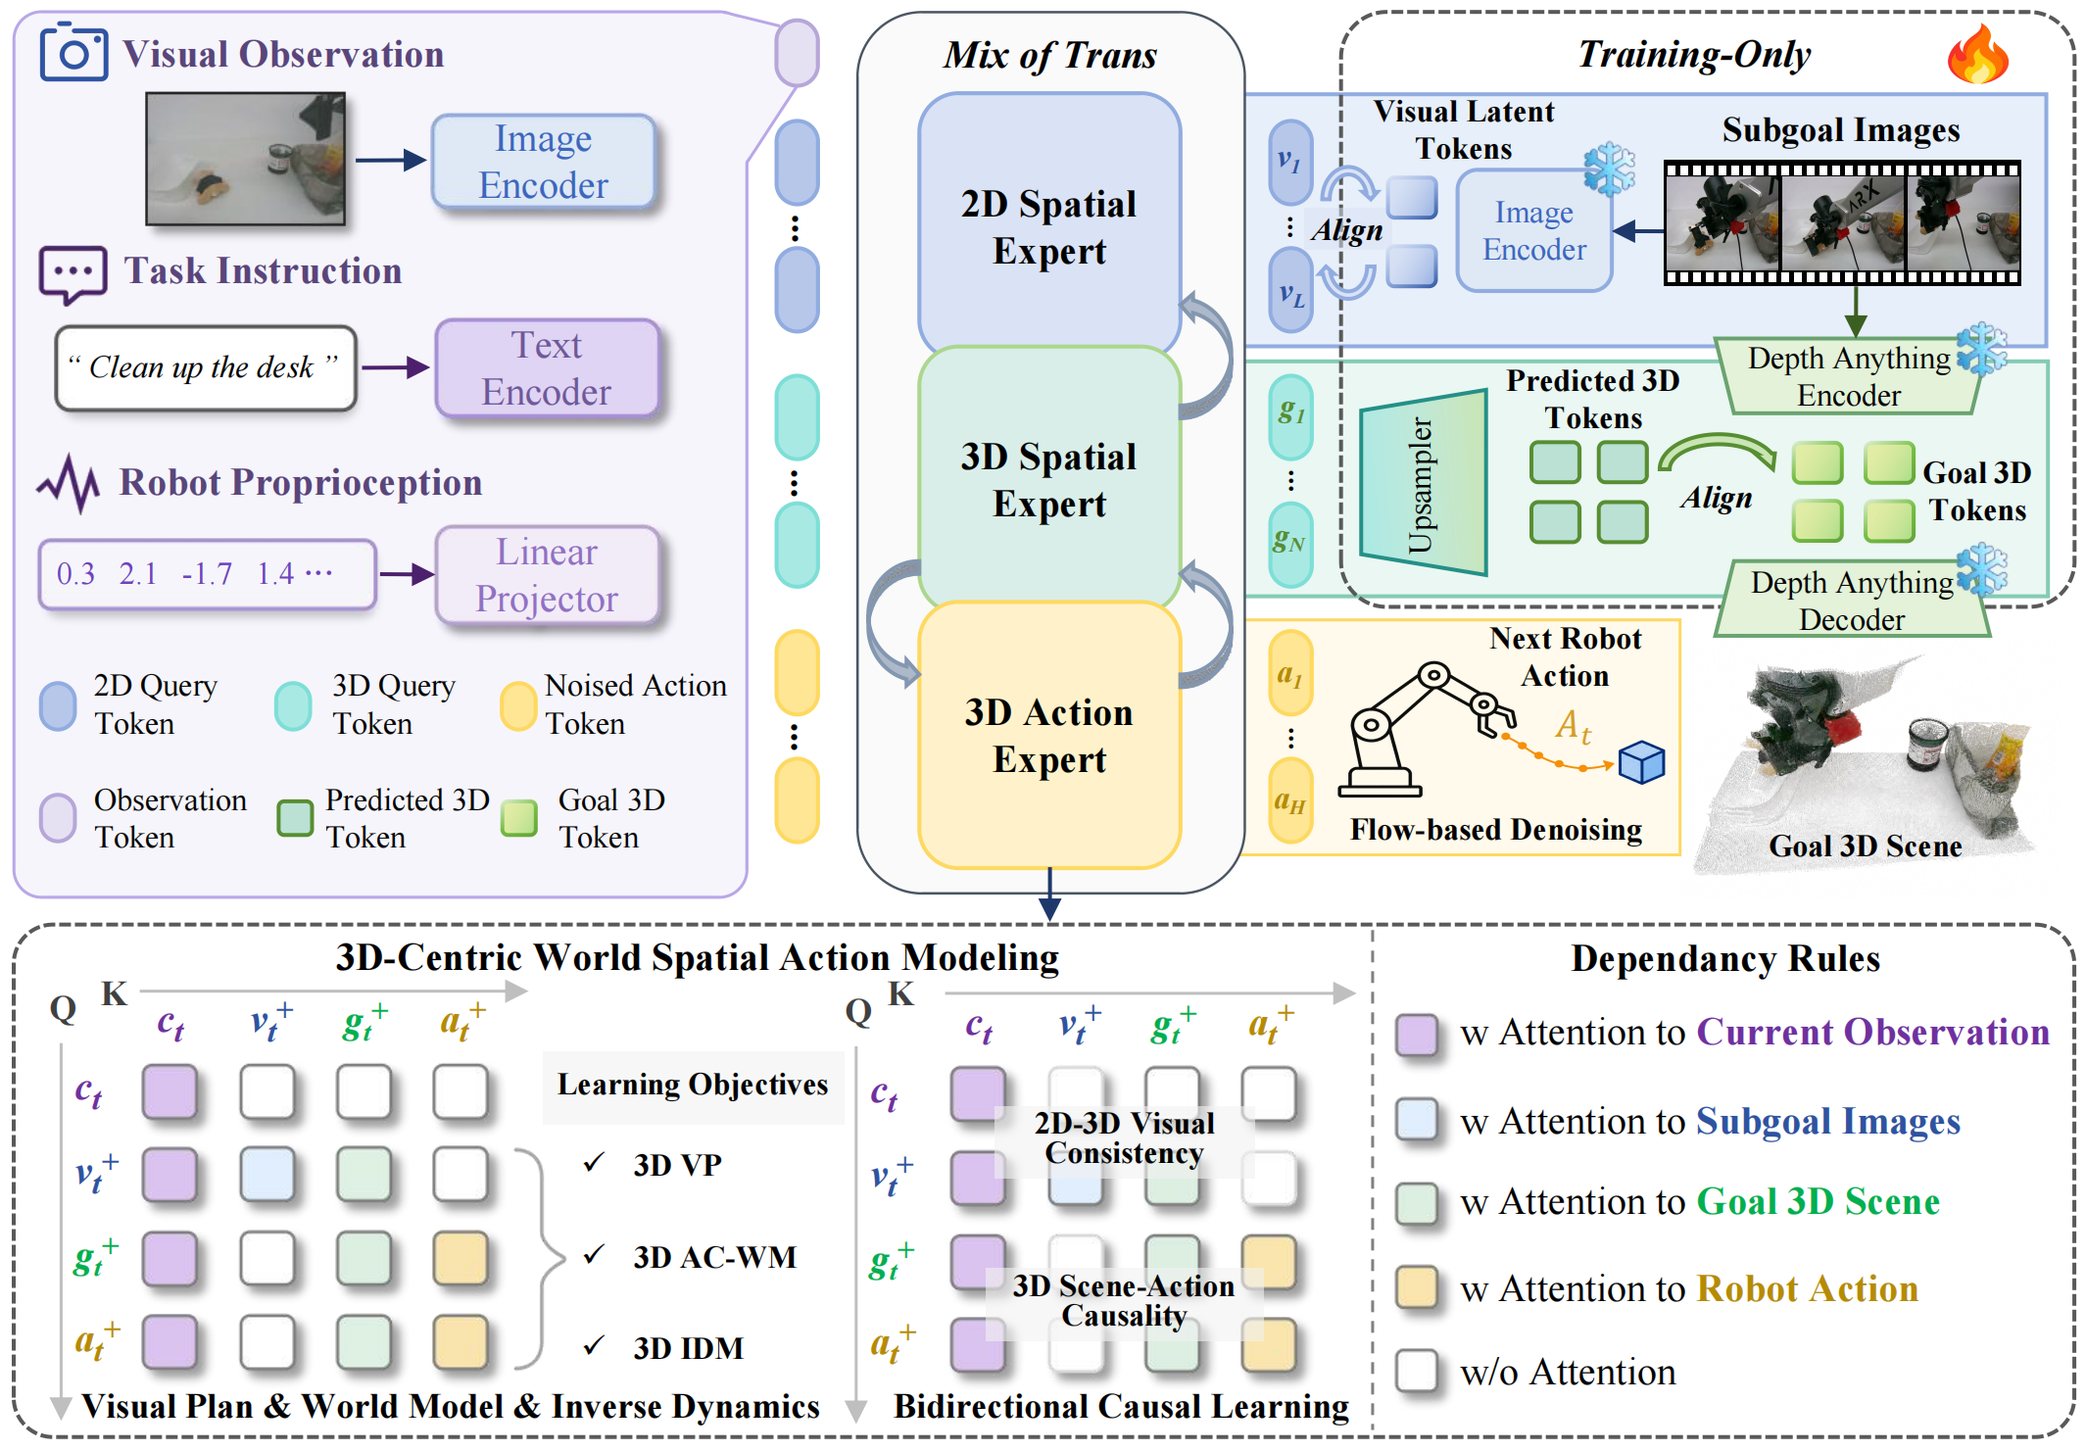
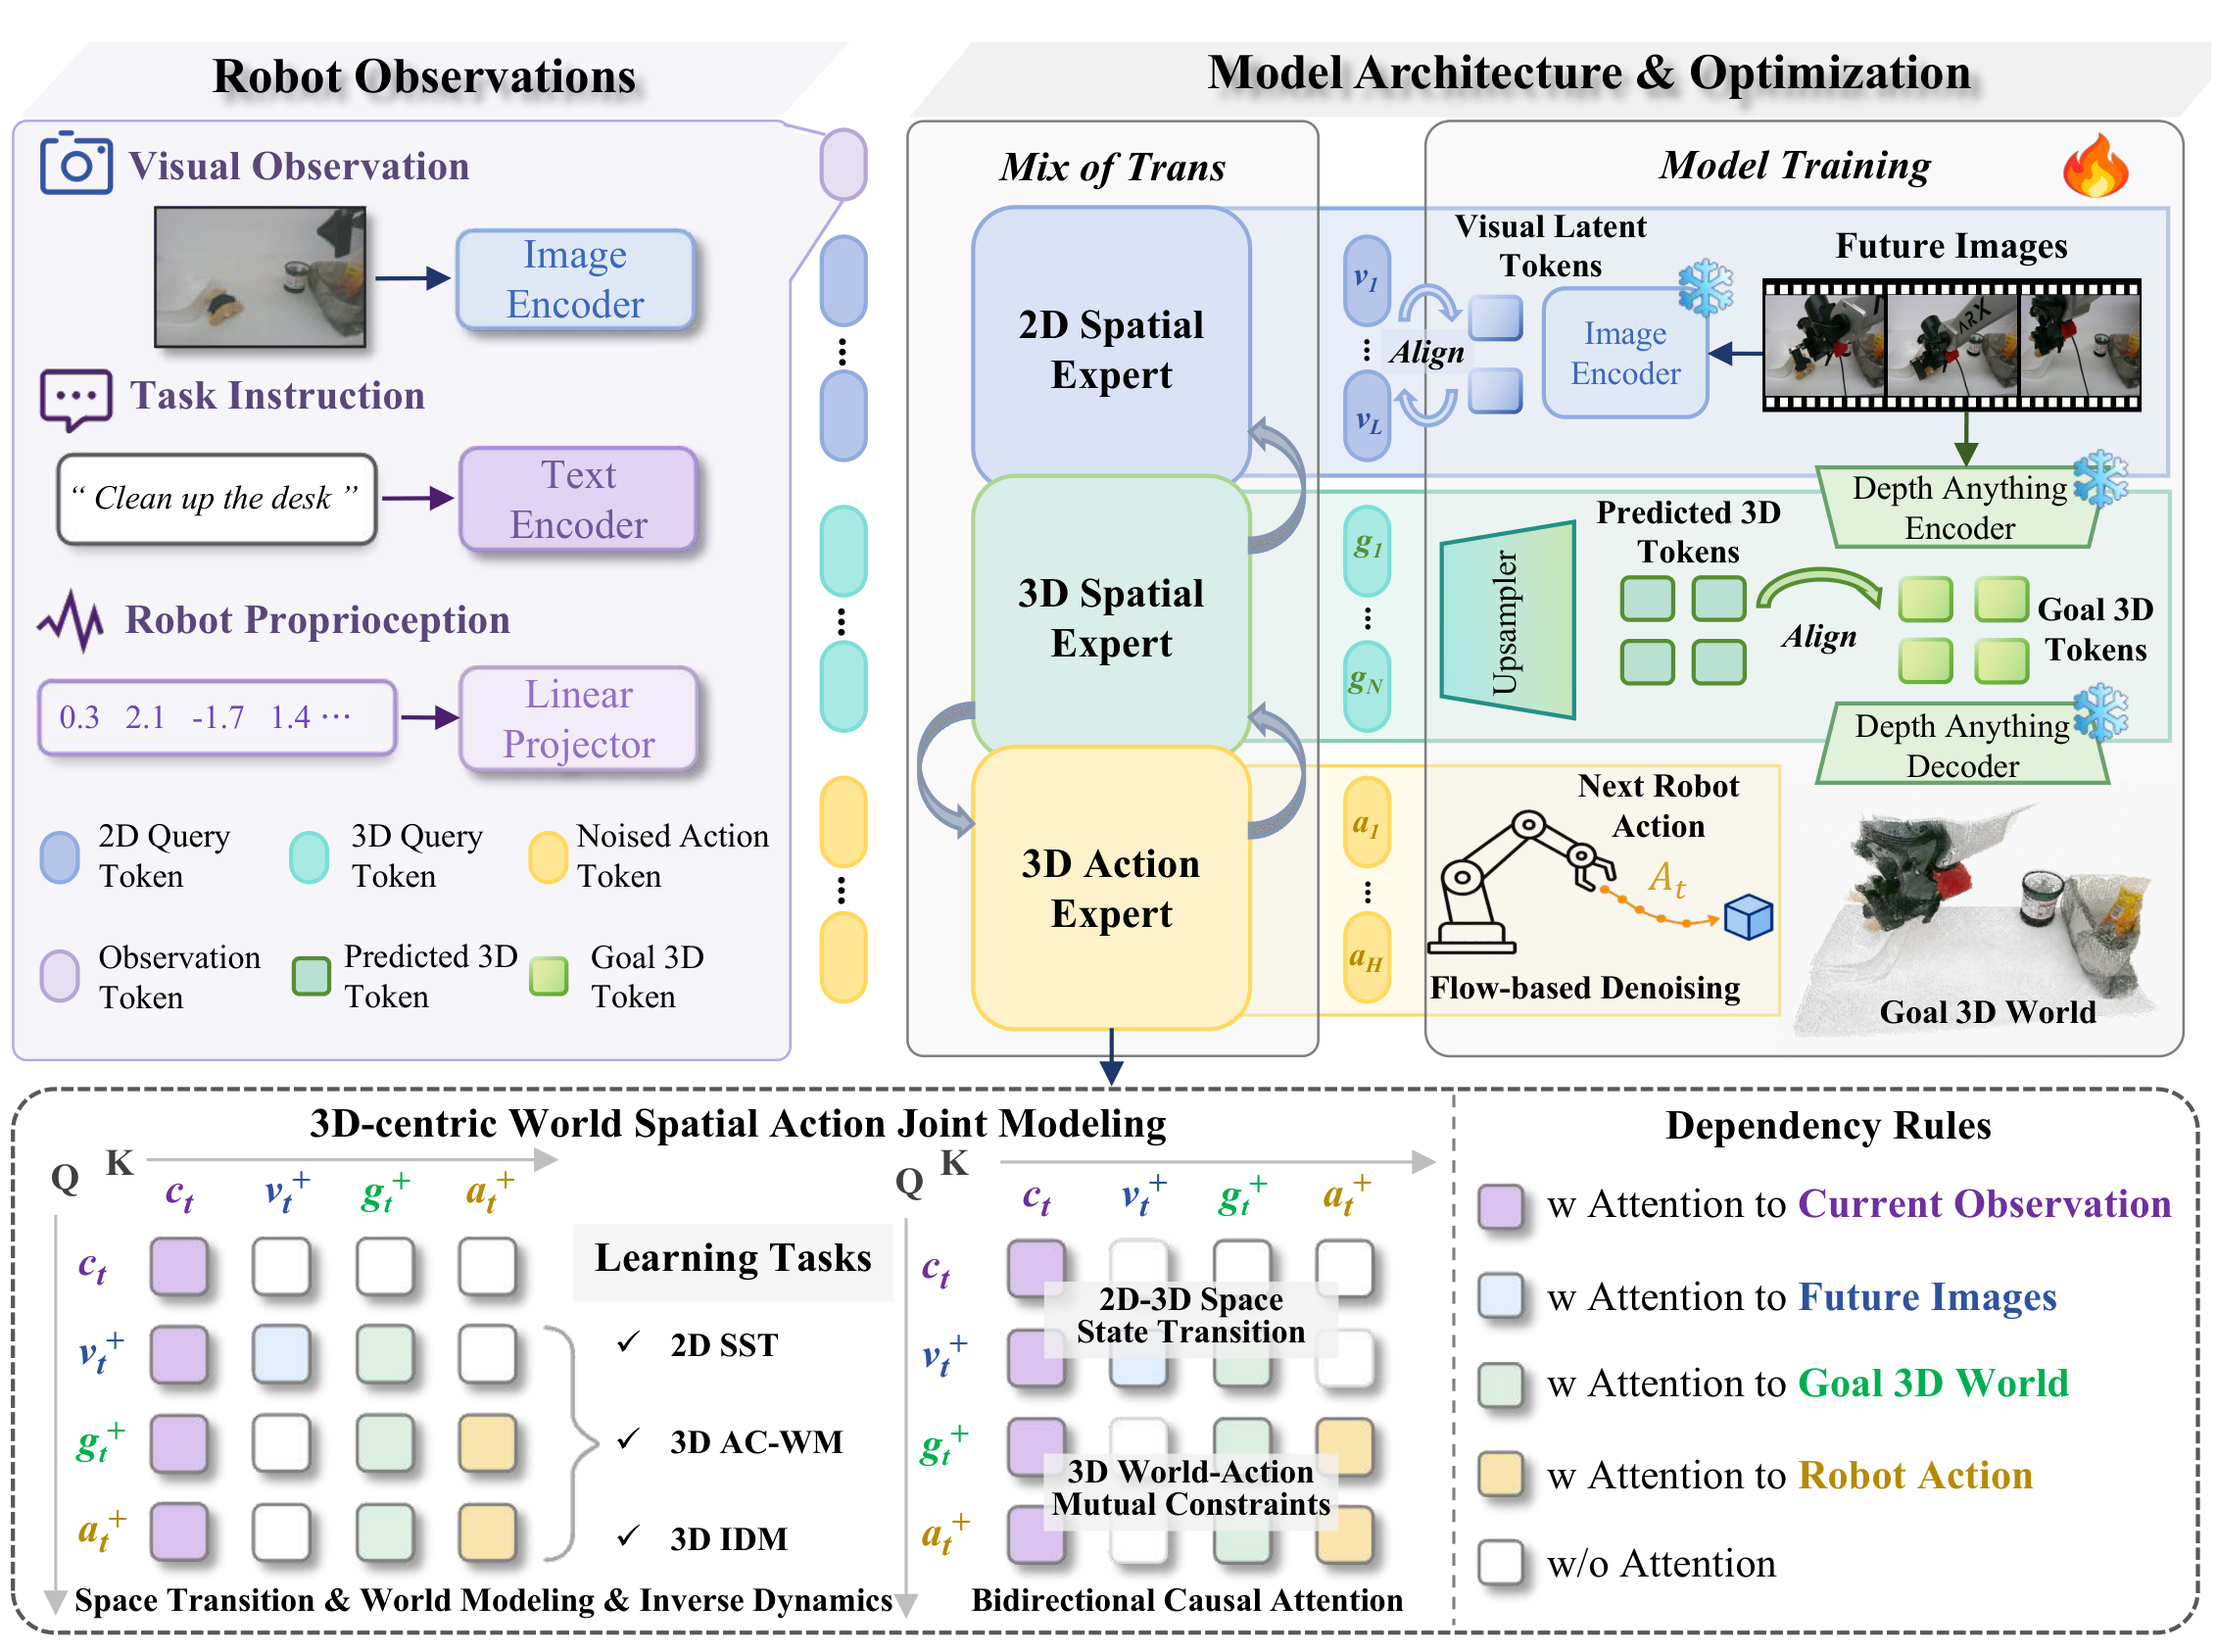
update figures and more results

diff --git a/README.md b/README.md
@@ -51,6 +51,12 @@
 
 ## Table of Contents
 - [Framework](#framework)
+- [Results](#results)
+  - [RoboTwin 2.0](#robotwin-20)
+  - [LIBERO](#libero)
+  - [Clean2Random Generalization](#clean2random-generalization-ood-c2r)
+  - [ARX-X5 Zero-Shot Transfer](#arx-x5-zero-shot-transfer-ood-ce)
+  - [Real-Robot Manipulation](#real-robot-manipulation)
 - [Repository Layout](#repository-layout)
 - [Installation](#installation)
 - [Model Zoo](#model-zoo)
@@ -88,11 +94,116 @@ and 3D-aware **action generation**.
 - **Superior Performance:** State-of-the-art results across simulation
   and real-world robot manipulation tasks, achieved by our open-source model.
 
----
-🤖 Result on RoboTwin 2.0 randomized setting, averaged over 50 simulated aloha manipulation tasks:
+## Results
+
+### RoboTwin 2.0
+
+Success rates averaged over 50 simulated ALOHA manipulation tasks in the
+randomized setting.
+WSA-B and WSA-L denote WSA₁-B (WSA-Base) and WSA₁-L (WSA-Large), respectively.
+
 | Metric | π0 | π0.5 | ABot-M0 | Motus | InternVLA-A1 | LingBot-VA | Fast-WAM | **WSA-B** | **WSA-L** |
 | --- | ---: | ---: | ---: | ---: | ---: | ---: | ---: | ---: | ---: |
-| Avg. Success (Hard) | 58.40% | 76.76% | 85.08% | 87.02% | 89.64% | 91.50% | 91.78% | 92.70% | **93.14%** |
+| Avg. Success (Randomized) | 58.4% | 76.8% | 85.1% | 87.0% | 89.6% | 91.6% | 91.8% | 92.7% | **93.1%** |
+
+### LIBERO
+
+Success rates (%) across spatial, object, goal-conditioned, and long-horizon
+manipulation. Avg. is the mean over the four suites.
+
+| Method | Spatial ↑ | Object ↑ | Goal ↑ | Long ↑ | Avg. ↑ |
+| --- | ---: | ---: | ---: | ---: | ---: |
+| π0.5 | 98.8 | 98.2 | 98.0 | 92.4 | 96.9 |
+| OpenVLA-OFT | 97.6 | 98.4 | 97.9 | 94.5 | 97.1 |
+| ABot-M0 | 98.8 | 99.8 | **99.0** | 96.6 | **98.6** |
+| Motus | 96.8 | 99.8 | 96.6 | 97.6 | 97.7 |
+| LingBot-VA | 98.5 | 99.6 | 97.2 | **98.5** | 98.5 |
+| Fast-WAM | 98.2 | **100.0** | 97.0 | 95.2 | 97.6 |
+| **WSA-B** | 98.6 | 99.6 | 97.2 | 94.2 | 97.4 |
+| **WSA-L** | **99.4** | 99.8 | 98.0 | 95.6 | 98.2 |
+
+### Clean2Random Generalization (OOD-C2R)
+
+All models are fine-tuned **only on clean demonstrations**, then evaluated in
+both clean and randomized scenes.
+Drop is Clean − Randomized, measured in percentage points (lower is better).
+
+| Method | Clean SR (%) ↑ | Randomized SR (%) ↑ | Avg. SR (%) ↑ | Drop (pp) ↓ |
+| --- | ---: | ---: | ---: | ---: |
+| π0.5 | 70.7 | 46.0 | 58.4 | 24.7 |
+| ABot-M0 | 57.4 | 30.4 | 43.9 | 27.0 |
+| RobotManip | 73.2 | 62.6 | 67.9 | 10.6 |
+| Fast-WAM | 77.8 | 1.9 | 39.9 | 75.9 |
+| InternVLA-A1 | **86.6** | 74.6 | 80.6 | 12.0 |
+| **WSA-B** | 83.8 | **77.8** | **80.8** | **6.0** |
+
+
+### ARX-X5 Zero-Shot Transfer (OOD-CE)
+
+Policies are fine-tuned on ALOHA and transferred to the **unseen ARX-X5**
+without target-robot policy fine-tuning. WSA-Base uses ARX-X5 state/action
+normalization statistics and is evaluated over 45 tasks with 100 episodes per
+task and setting.
+
+| Method | Clean SR (%) ↑ | Randomized SR (%) ↑ | Avg. SR (%) ↑ |
+| --- | ---: | ---: | ---: |
+| π0.5 | 33.5 | 19.0 | 26.3 |
+| LingBot-VA | 17.2 | 16.6 | 16.9 |
+| RobotManip | — | 42.9 | 42.9 |
+| Fast-WAM | 25.9 | 22.4 | 24.2 |
+| InternVLA-A1 | 18.1 | 17.5 | 17.8 |
+| **WSA-B** | **47.1** | **47.6** | **47.4** |
+
+<details>
+<summary>ALOHA → ARX-X5 execution examples</summary>
+
+<p align="center">
+  <img src="assets/arx_x5_zero_shot.png" alt="ALOHA and zero-shot ARX-X5 execution on Place Bread Basket, Hanging Mug, and Stack Bowls Three" width="95%">
+</p>
+
+Each task shows an ALOHA rollout followed by an ARX-X5 zero-shot rollout,
+with execution progressing from left to right.
+
+</details>
+
+### Real-Robot Manipulation
+
+Seven tabletop tasks span the **7-DoF AgileX PiPER** and **14-DoF bimanual
+ARX Lift2**. Success rate (SR) measures full-task completion; completeness (C)
+measures the fraction of task stages completed. Both metrics are averaged
+equally across the seven tasks.
+
+<p align="center">
+  <img src="assets/real_robot_results.png" alt="Success rates of five policies across seven real-robot tasks on AgileX PiPER and ARX Lift2" width="95%">
+</p>
+
+| Method | Avg. SR (%) ↑ | Avg. C (%) ↑ |
+| --- | ---: | ---: |
+| π0 | 33.73 | 43.24 |
+| π0.5 | 55.45 | 63.33 |
+| InternVLA-A1 | 38.45 | 50.37 |
+| **WSA-B** | 77.30 | 82.27 |
+| **WSA-L** | **80.52** | **85.21** |
+
+WSA-Large achieves **80.52%** average success and **85.21%** completeness.
+
+<details>
+<summary>Per-task real-robot results</summary>
+
+Each cell gives **SR / C (%)**. All policies use 30 trials per task, except
+Sweep Trash (34) and Unzip Pencil Bag (20).
+
+| Task | Robot | π0 | π0.5 | InternVLA-A1 | WSA-B | WSA-L |
+| --- | --- | ---: | ---: | ---: | ---: | ---: |
+| RGB Block Sorting | PiPER | 70.00 / 70.00 | 70.00 / 70.00 | 50.00 / 50.00 | 80.00 / 80.00 | 83.33 / 83.33 |
+| Object Organization | PiPER | 50.00 / 50.00 | 76.67 / 76.67 | 36.67 / 36.67 | 80.00 / 80.00 | 76.67 / 76.67 |
+| Trash Cleaning | Lift2 | 36.67 / 53.33 | 76.67 / 86.67 | 43.33 / 58.33 | 80.00 / 90.00 | 86.67 / 91.67 |
+| Pen Holder Placement | Lift2 | 6.67 / 28.33 | 70.00 / 76.67 | 33.33 / 38.33 | 86.67 / 90.00 | 76.67 / 76.67 |
+| Toy Box Organization | Lift2 | 13.33 / 18.33 | 13.33 / 26.67 | 36.67 / 48.33 | 60.00 / 71.67 | 70.00 / 85.00 |
+| Sweep Trash | Lift2 | 29.41 / 40.19 | 26.47 / 44.12 | 44.12 / 78.41 | 79.41 / 89.21 | 85.29 / 93.12 |
+| Unzip Pencil Bag | Lift2 | 30.00 / 42.50 | 55.00 / 62.50 | 25.00 / 42.50 | 75.00 / 75.00 | 85.00 / 90.00 |
+
+</details>
 
 ## Repository Layout
 
